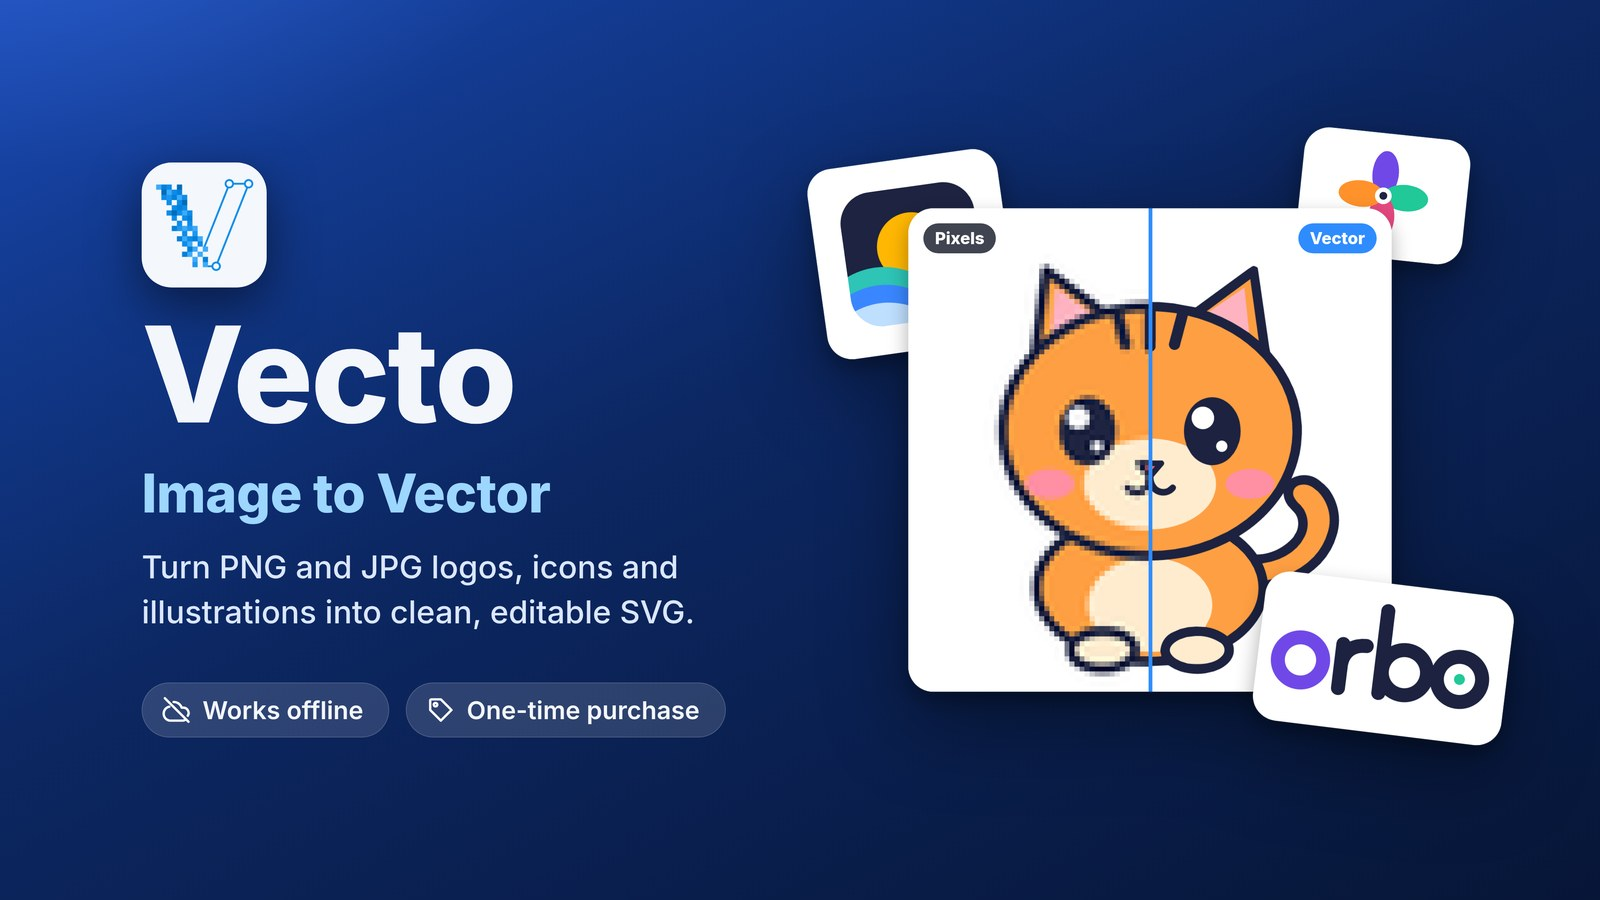
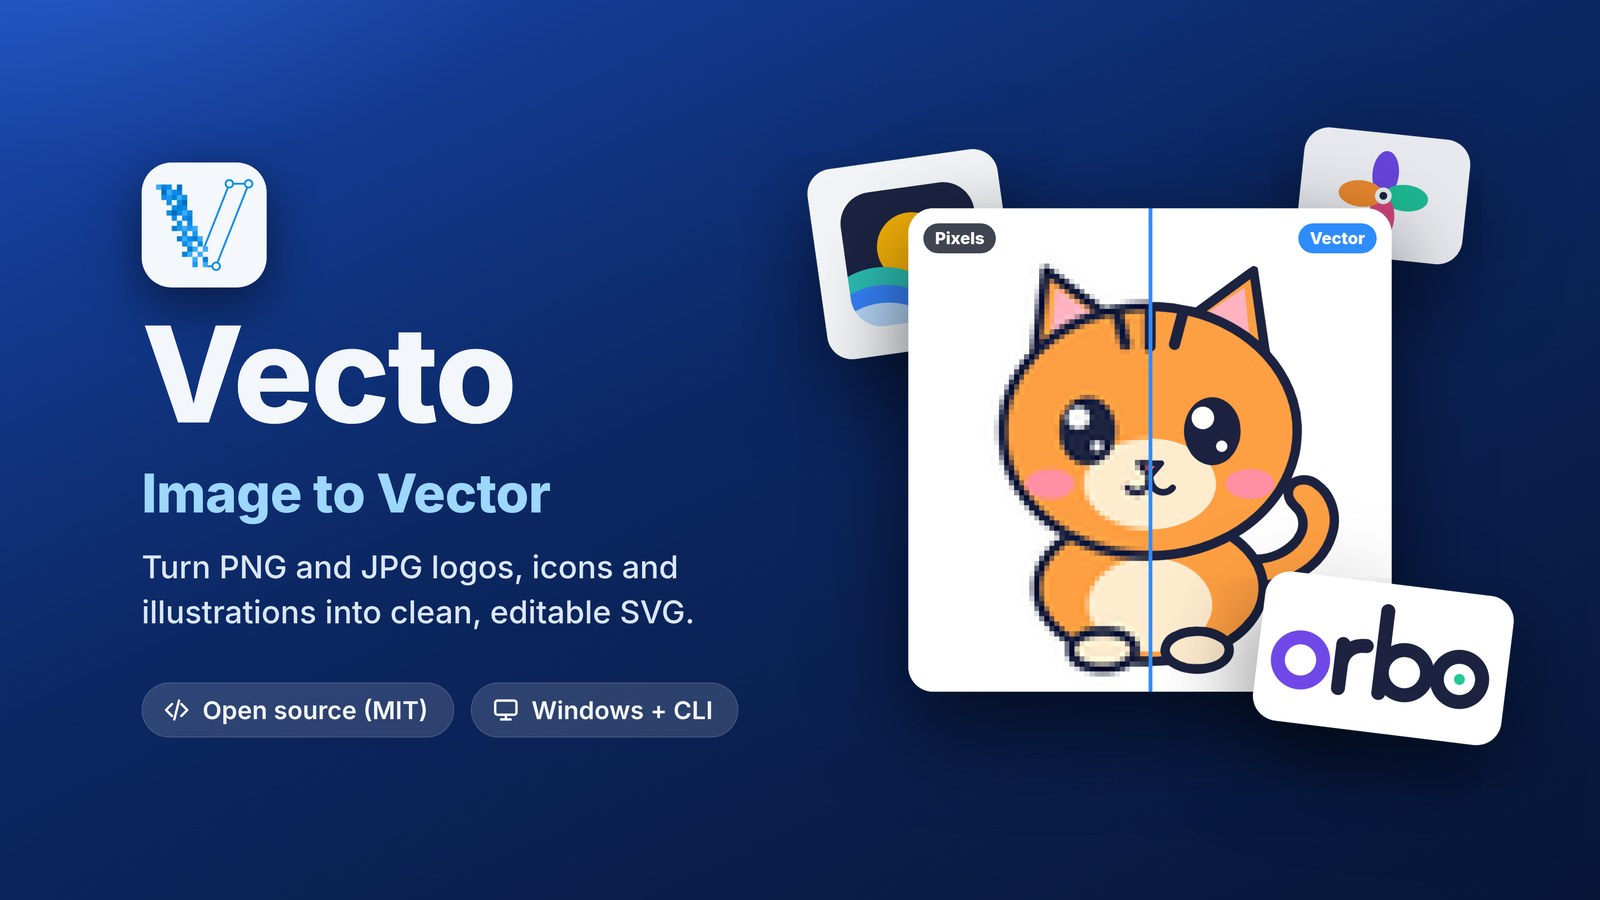
README: open-source featured image, drop the privacy slide from the slideshow

diff --git a/README.md b/README.md
@@ -23,7 +23,7 @@
   <sub><a href="https://apps.microsoft.com/detail/9PM61P4NC8J2"><b>Get it on the Microsoft Store</b></a> for a one-click, auto-updating, signed install that supports development — or build the same open-source app free from the source below.</sub>
 </p>
 
-![Vecto in a 24-second loop: the app side by side, sharp at any size, exact lines and circles, offline, what works best, three steps, which Style and how much Detail](assets/readme/slideshow.webp)
+![Vecto in a 21-second loop: the app side by side, sharp at any size, exact lines and circles, what works best, three steps, which Style and how much Detail](assets/readme/slideshow.webp)
 
 **Vecto** is a bitmap-to-vector tracing app (auto-tracer / image vectorizer) in the spirit of
 Vector Magic and Adobe Illustrator's Image Trace — but free, open source, and built around one
